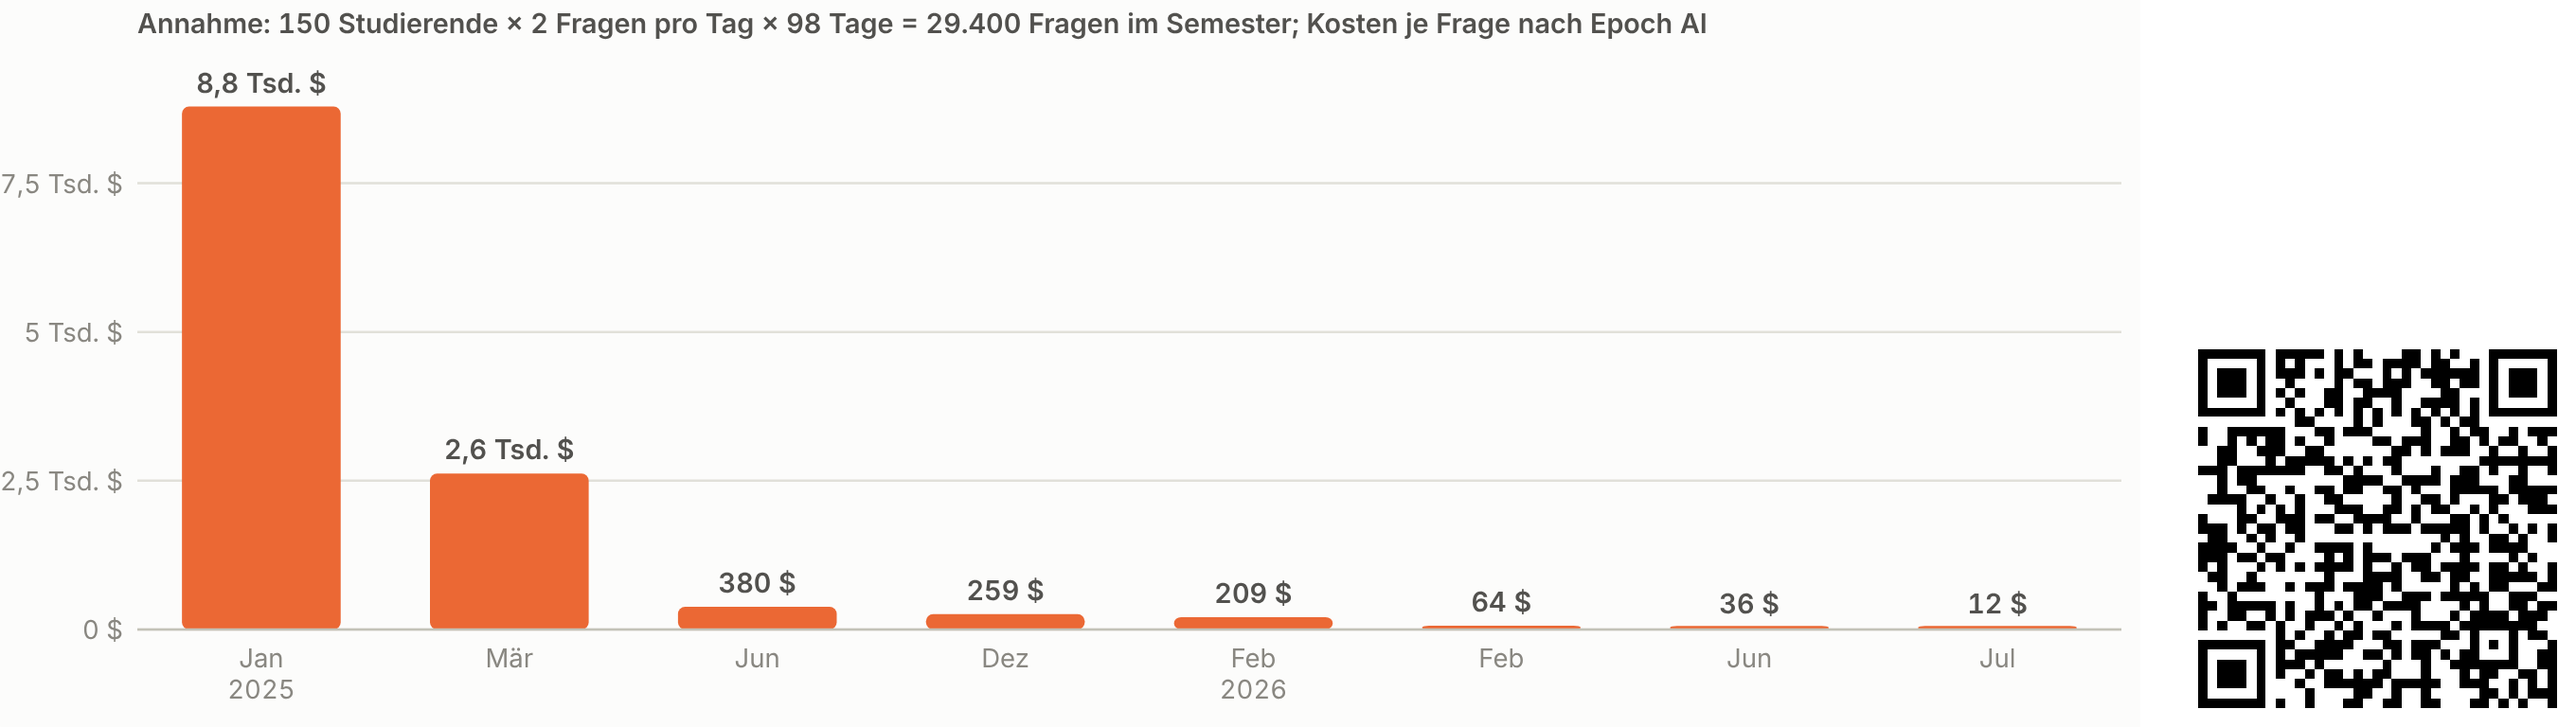
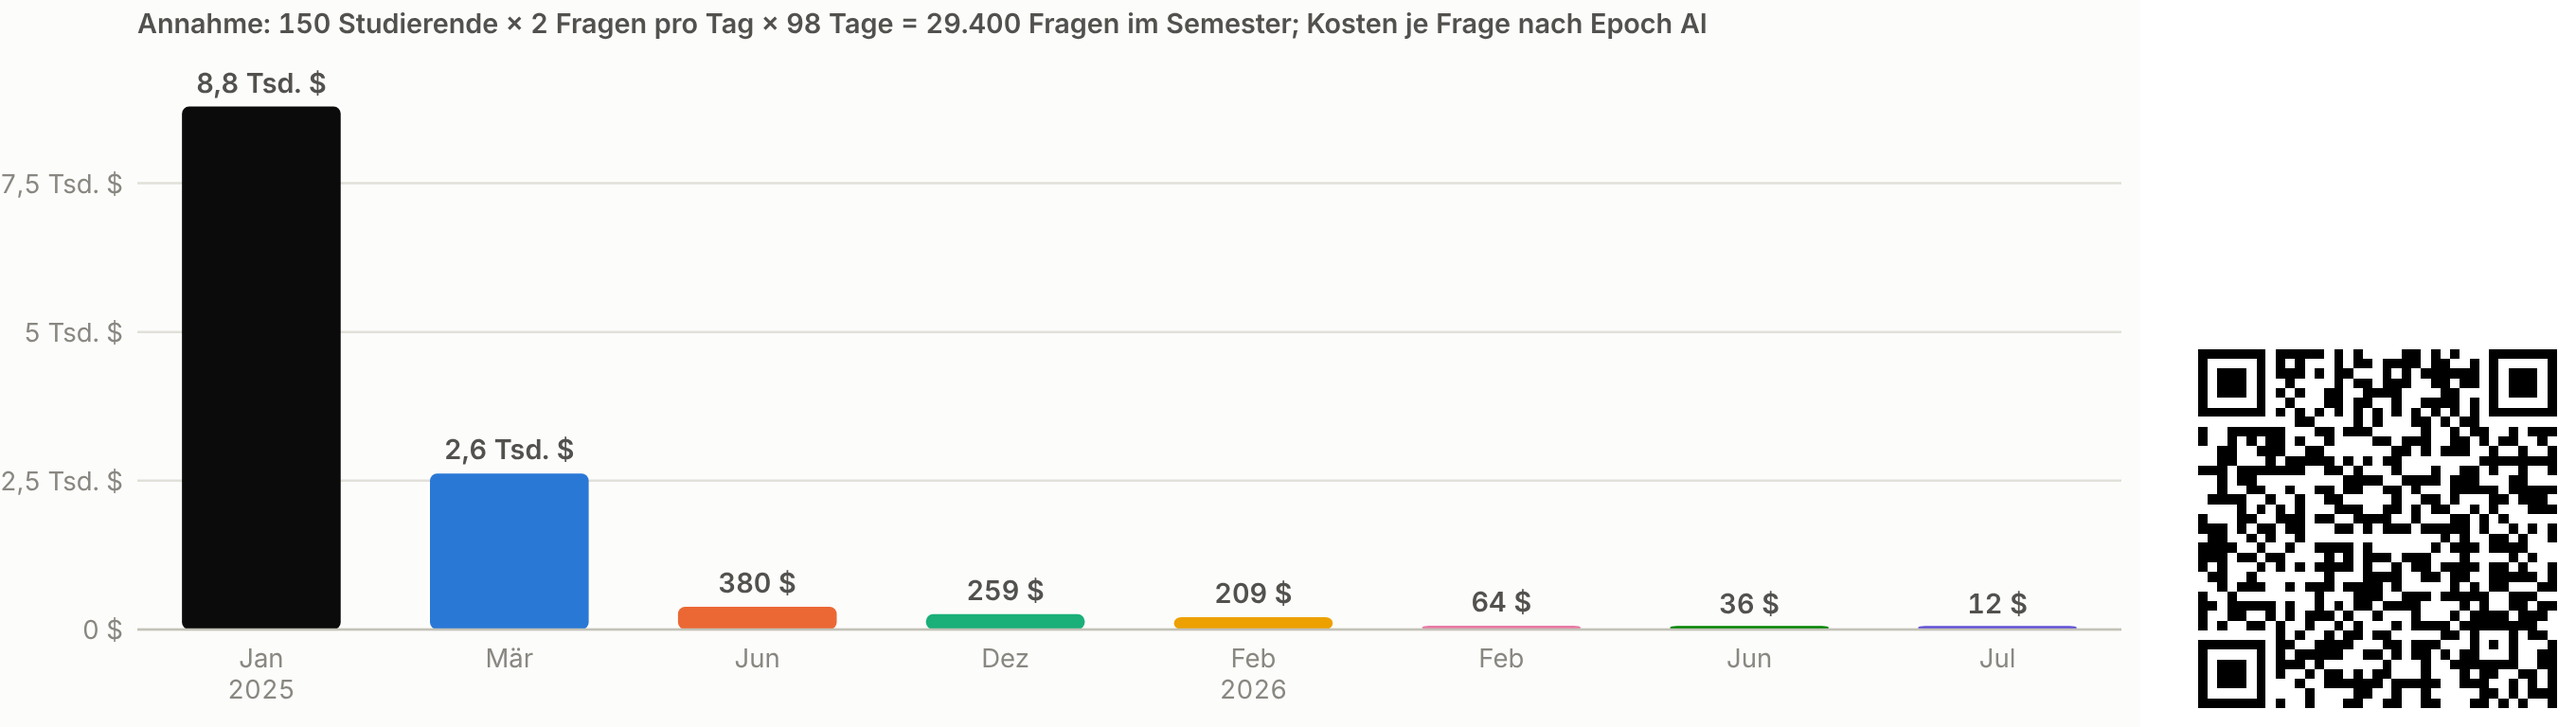
Kapitel 2.4: Tutor-Bot-Rechner eingebaut, Tagesrechnung, Stufenfarben
Absatz zum Tutor-Bot nach dem Kosten-Raster, umgestellt auf 150 x 2 x 98 = 29.400 Fragen
(rund 8.800 bzw. 12 US-$). iframe und Druckabbildung @fig-tutor-kosten eingefügt.
tutor-kosten.html: Balken in den Stufenfarben --st1 ... --st7 des Kosten-Rasters,
Großzahl mit Farbfeld, Farbfelder in der Datentabelle. Druckzwilling neu erzeugt.

Claude-Session: https://claude.ai/code/session_01NiJQCSs6wuvPtNpoAbYKSh

diff --git a/interactions/tutor-kosten.html b/interactions/tutor-kosten.html
@@ -5,8 +5,8 @@
 <meta name="viewport" content="width=device-width, initial-scale=1">
 <title>Was ein Tutor-Bot im Semester kostet</title>
 <style>
-.viz-root{color-scheme:light;--plane:#f9f9f7;--surface-1:#fcfcfb;--text-primary:#0b0b0b;--text-secondary:#52514e;--muted:#898781;--grid:#e1e0d9;--axis:#c3c2b7;--border:rgba(11,11,11,0.10);--series-2:#eb6834;--wash:rgba(11,11,11,0.035)}
-@media (prefers-color-scheme: dark){:root:where(:not([data-theme="light"]):not(.druck)) .viz-root{color-scheme:dark;--plane:#0d0d0d;--surface-1:#1a1a19;--text-primary:#f0efec;--text-secondary:#c3c2b7;--muted:#898781;--grid:#2c2c2a;--axis:#383835;--border:rgba(255,255,255,0.10);--series-2:#d95926;--wash:rgba(255,255,255,0.04)}}
+.viz-root{color-scheme:light;--st1:#2a78d6;--st2:#eb6834;--st3:#1baf7a;--st4:#eda100;--st5:#e87ba4;--st6:#008300;--st7:#6250d6;--plane:#f9f9f7;--surface-1:#fcfcfb;--text-primary:#0b0b0b;--text-secondary:#52514e;--muted:#898781;--grid:#e1e0d9;--axis:#c3c2b7;--border:rgba(11,11,11,0.10);--series-2:#eb6834;--wash:rgba(11,11,11,0.035)}
+@media (prefers-color-scheme: dark){:root:where(:not([data-theme="light"]):not(.druck)) .viz-root{color-scheme:dark;--st1:#3987e5;--st2:#d95926;--st3:#199e70;--st4:#c98500;--st5:#d55181;--st6:#008300;--st7:#9085e9;--plane:#0d0d0d;--surface-1:#1a1a19;--text-primary:#f0efec;--text-secondary:#c3c2b7;--muted:#898781;--grid:#2c2c2a;--axis:#383835;--border:rgba(255,255,255,0.10);--series-2:#d95926;--wash:rgba(255,255,255,0.04)}}
 *{box-sizing:border-box}body{margin:0}
 .viz-root{font-family:system-ui,-apple-system,"Segoe UI",sans-serif;background:var(--plane);color:var(--text-primary);padding:16px 12px 24px;line-height:1.45}
 main{max-width:920px;margin:0 auto}
@@ -30,7 +30,8 @@ input[type=range]{width:200px}
 .wrap{display:grid;grid-template-columns:minmax(190px,250px) 1fr;gap:12px 22px;align-items:start}
 @media (max-width:599px){.wrap{grid-template-columns:1fr}}
 .info .k{color:var(--text-secondary);font-size:.85rem}
-.info .big{font-size:2.6rem;font-weight:750;line-height:1.05;font-variant-numeric:tabular-nums;color:var(--series-2)}
+.info .big{font-size:2.6rem;font-weight:750;line-height:1.05;font-variant-numeric:tabular-nums;color:var(--text-primary);display:flex;align-items:baseline;gap:8px}.info .sw-big{display:inline-block;width:.42em;height:.42em;border-radius:4px;align-self:center;flex:none}
+.sw{display:inline-block;width:.8em;height:.8em;border-radius:3px;vertical-align:-.05em;margin-right:5px}
 .info .s{color:var(--text-secondary);font-size:.85rem;margin-top:4px;font-variant-numeric:tabular-nums}
 .info .pp{margin-top:12px;padding-top:8px;border-top:1px solid var(--grid);font-size:.85rem}
 .info .pp b{font-size:1.15rem;font-variant-numeric:tabular-nums}
@@ -94,6 +95,8 @@ const css=v=>getComputedStyle(document.querySelector('.viz-root')).getPropertyVa
 const druck=document.documentElement.classList.contains('druck');
 const E=window.EPOCH_GPQA75.map(r=>({...r,t:new Date(r.d+'T00:00:00')}));
 E.forEach((r,i)=>{r.fall=i?1-r.c/E[i-1].c:null;});
+// Farbe je Stufe wie im Kosten-Raster (ki-entwicklung.html): o3 dunkel, danach --st1 … --st7 in fester Reihenfolge
+function farben(){return[css('--text-primary'),...[1,2,3,4,5,6,7].map(i=>css('--st'+i))];}
 const kurz=n=>n.replace(/ \(.*\)$/,'');
 const fD=d=>d.toLocaleDateString('de-DE',{month:'short',year:'numeric'});
 const fUSD=v=>v.toLocaleString('de-DE',v<100?{minimumFractionDigits:2,maximumFractionDigits:2}:{maximumFractionDigits:0})+' US-$';
@@ -121,7 +124,7 @@ function draw(){
   document.getElementById('sum').textContent=`= ${nTag.toLocaleString('de-DE')} Fragen pro Tag · ${n.toLocaleString('de-DE')} Fragen im Semester`;
   document.getElementById('s-lin').setAttribute('aria-pressed',skala==='lin');document.getElementById('s-log').setAttribute('aria-pressed',skala==='log');
   const cur=E[sel];
-  document.getElementById('info').innerHTML=`<div class="k">Kosten pro Semester, ${fD(cur.t)}</div><div class="big">${fUSD(kosten(sel))}</div>
+  document.getElementById('info').innerHTML=`<div class="k">Kosten pro Semester, ${fD(cur.t)}</div><div class="big"><i class="sw-big" style="background:${farben()[sel]}"></i>${fUSD(kosten(sel))}</div>
     <div class="s">${kurz(cur.n)} · ${cur.c.toLocaleString('de-DE',{maximumSignificantDigits:3})} ct je Frage</div>
     <div class="pp">je Person und Semester: <b>${fUSD(jePerson(sel))}</b></div>`;
   // Diagramm
@@ -134,7 +137,7 @@ function draw(){
   else{const lo=Math.pow(10,Math.floor(Math.log10(Math.max(kosten(E.length-1),1e-6)))),hi=Math.pow(10,Math.ceil(Math.log10(vmax)));
     ys=v=>m.t+ih-(Math.log10(Math.max(v,lo))-Math.log10(lo))/(Math.log10(hi)-Math.log10(lo))*ih;ticks=[];for(let v=lo;v<=hi*1.001;v*=10)ticks.push(v);}
   ticks.forEach(v=>{const y=ys(v);el('line',{x1:m.l,x2:m.l+iw,y1:y,y2:y,stroke:css('--grid')},svg);el('text',{x:m.l-6,y:y+4,'text-anchor':'end',class:'tick'},svg).textContent=fUSDk(v);});
-  const bw=iw/E.length, y0=skala==='lin'?ys(0):m.t+ih;
+  const F=farben(), bw=iw/E.length, y0=skala==='lin'?ys(0):m.t+ih;
   E.forEach((r,i)=>{const x=m.l+i*bw;
     el('text',{x:x+bw/2,y:H-18,'text-anchor':'middle',class:'tick'},svg).textContent=r.t.toLocaleDateString('de-DE',{month:'short'}).replace('.','');
     if(i===0||E[i-1].t.getFullYear()!==r.t.getFullYear())el('text',{x:x+bw/2,y:H-5,'text-anchor':'middle',class:'tick'},svg).textContent=r.t.getFullYear();
@@ -142,7 +145,7 @@ function draw(){
     const v=kosten(i),y=ys(v),akt=!druck&&i===sel;
     // aktuelle Stufe: helles Band über die ganze Spalte, damit sie auch bei winzigem Balken sichtbar bleibt
     if(akt)el('rect',{x:x+bw*0.06,y:m.t,width:bw*0.88,height:ih,rx:6,fill:css('--wash'),stroke:css('--border')},svg);
-    const b=el('rect',{x:x+bw*0.18,y:Math.min(y,y0-1.5),width:bw*0.64,height:Math.max(1.5,y0-y),rx:3,fill:css('--series-2'),'fill-opacity':akt||druck?1:.4,class:'bar'+(akt&&i!==last?' neu':'')},svg);
+    const b=el('rect',{x:x+bw*0.18,y:Math.min(y,y0-1.5),width:bw*0.64,height:Math.max(1.5,y0-y),rx:3,fill:F[i],class:'bar'+(akt&&i!==last?' neu':'')},svg);
     const t=el('text',{x:x+bw/2,y:Math.min(y,y0-1)-6,'text-anchor':'middle',class:'val'+(akt?' akt':'')},svg);
     t.textContent=narrow&&!akt&&i!==0?'':fUSDk(v);});
   el('line',{x1:m.l,x2:m.l+iw,y1:m.t+ih,y2:m.t+ih,stroke:css('--axis')},svg);
@@ -154,7 +157,7 @@ function draw(){
   if(sel===E.length-1)txt+=`<span class="ex">Die Frage verschiebt sich von „Können wir uns das leisten?“ zu „Wer prüft, was der Tutor sagt?“</span>`;
   document.getElementById('now').innerHTML=txt;
   document.getElementById('zur').disabled=sel===0;document.getElementById('vor').disabled=sel>=E.length-1;
-  document.querySelector('#tab tbody').innerHTML=E.map((r,i)=>`<tr><td>${fD(r.t)}</td><td>${kurz(r.n)}</td><td class="num">${r.c.toLocaleString('de-DE',{maximumSignificantDigits:3})}</td><td class="num">${fUSD(kosten(i))}</td><td class="num">${fUSD(jePerson(i))}</td></tr>`).join('');
+  document.querySelector('#tab tbody').innerHTML=E.map((r,i)=>`<tr><td><i class="sw" style="background:${farben()[i]}"></i>${fD(r.t)}</td><td>${kurz(r.n)}</td><td class="num">${r.c.toLocaleString('de-DE',{maximumSignificantDigits:3})}</td><td class="num">${fUSD(kosten(i))}</td><td class="num">${fUSD(jePerson(i))}</td></tr>`).join('');
 }
 function niceStep(x){const p=Math.pow(10,Math.floor(Math.log10(x))),f=x/p;return (f<=1?1:f<=2?2:f<=2.5?2.5:f<=5?5:10)*p;}
 draw();

diff --git a/notes/2026-10-30-status-kosten-raster-tutor-kosten.md b/notes/2026-10-30-status-kosten-raster-tutor-kosten.md
@@ -11,12 +11,18 @@ Neu (Commit f03c7a4):
 - Druck `images/druck/ki-kosten-qr.png`: Farbschlüssel (Monat und Rückgang) über den vier kleinen Rastern; Bildunterschrift um einen Satz zu den Farben ergänzt.
 - Kontrasthinweis: Türkis, Gelb und Rosa liegen auf hellem Grund unter 3:1; ausgeglichen durch beschriftete Zeitstrahlpunkte, Druck-Legende und Datentabelle.
 
-## Tutor-Bot-Rechner (`interactions/tutor-kosten.html`, Commit 860f54b) — noch nicht im Buch
+## Tutor-Bot-Rechner (`interactions/tutor-kosten.html`, Commit 860f54b) — seit 30.10. in Kapitel 2.4 eingebaut
 Eingaben: Studierende 150, Fragen an den Tutor-Bot pro Person und Tag 2, Tage im Semester 98 → 29.400 Fragen; Semesterkosten 8.788 US-$ (o3, Jan. 2025) → 12,11 US-$ (Juli 2026). Stufenweise Balken, linear/log, Druckzwilling `images/druck/tutor-kosten-qr.png`. Einbau-Baustein und Hinweis zum Absatz in 2.4 (rechnet noch mit 20 Fragen/Woche): Projektnotiz `claude/mollick-2026/ARBEITSNOTIZ-tutor-kosten-2026-10-30.md`.
 Gemeinsame Datenquelle beider Seiten: `interactions/models/epoch-kosten.js`.
 
+## Einbau in Kapitel 2.4 (30.10.2026, 11:40)
+- Die Tutor-Sätze stehen jetzt nach dem Kosten-Raster (@fig-ki-kosten), mit Tagesrechnung: 150 × 2 × 98 = 29.400 Fragen, rund 8.800 US-$ (o3, Jan. 2025) → rund 12 US-$ (Juli 2026); je Person 59 $ bzw. 8 ct. Danach HTML-Hinweis, iframe (950 px) und Druckabbildung @fig-tutor-kosten.
+- Rechner in den Stufenfarben des Rasters: `--st1 … --st7` (hell/dunkel) übernommen, `farben()` wie in ki-entwicklung.html (o3 = `--text-primary`). Alle Balken voll gefärbt, aktuelle Stufe über Band und fette Beschriftung; Großzahl in Textfarbe mit Farbfeld (Türkis/Gelb/Rosa wären als Schrift unter 3:1); Farbfelder auch in der Datentabelle.
+- Druckzwilling `images/druck/tutor-kosten-qr.png` neu erzeugt; alle übrigen Druckbilder bitgleich.
+- Hinweis: Im Druck (lineare Achse) sind die Balken ab Feb. 2026 nur Haarlinien, ihre Farben also kaum erkennbar.
+
 ## Offen
-1. Tutor-Rechner einbauen und Absatz in 2.4 auf die Tagesrechnung umstellen.
-2. Optional: Tutor-Rechner auf dieselben Stufenfarben umstellen (Balken je Stufe in ihrer Farbe).
+1. Druckbild Tutor-Rechner: lineare Achse lassen (Botschaft „fast null“) oder log-Achse (Farben aller Stufen sichtbar)?
+2. Bei 380 px Breite ist der Rechner rund 1.200 px hoch, das iframe 950 px (scrollt auf dem Handy).
 3. Gemini 2.5 Pro zweimal (März/Juni 2025) in der Epoch-Quelle klären; Lizenz `droodman/inference-cost`.
 4. Lokale Kopie: `git fetch origin` und `git reset --hard origin/revision-2026-druck`.
